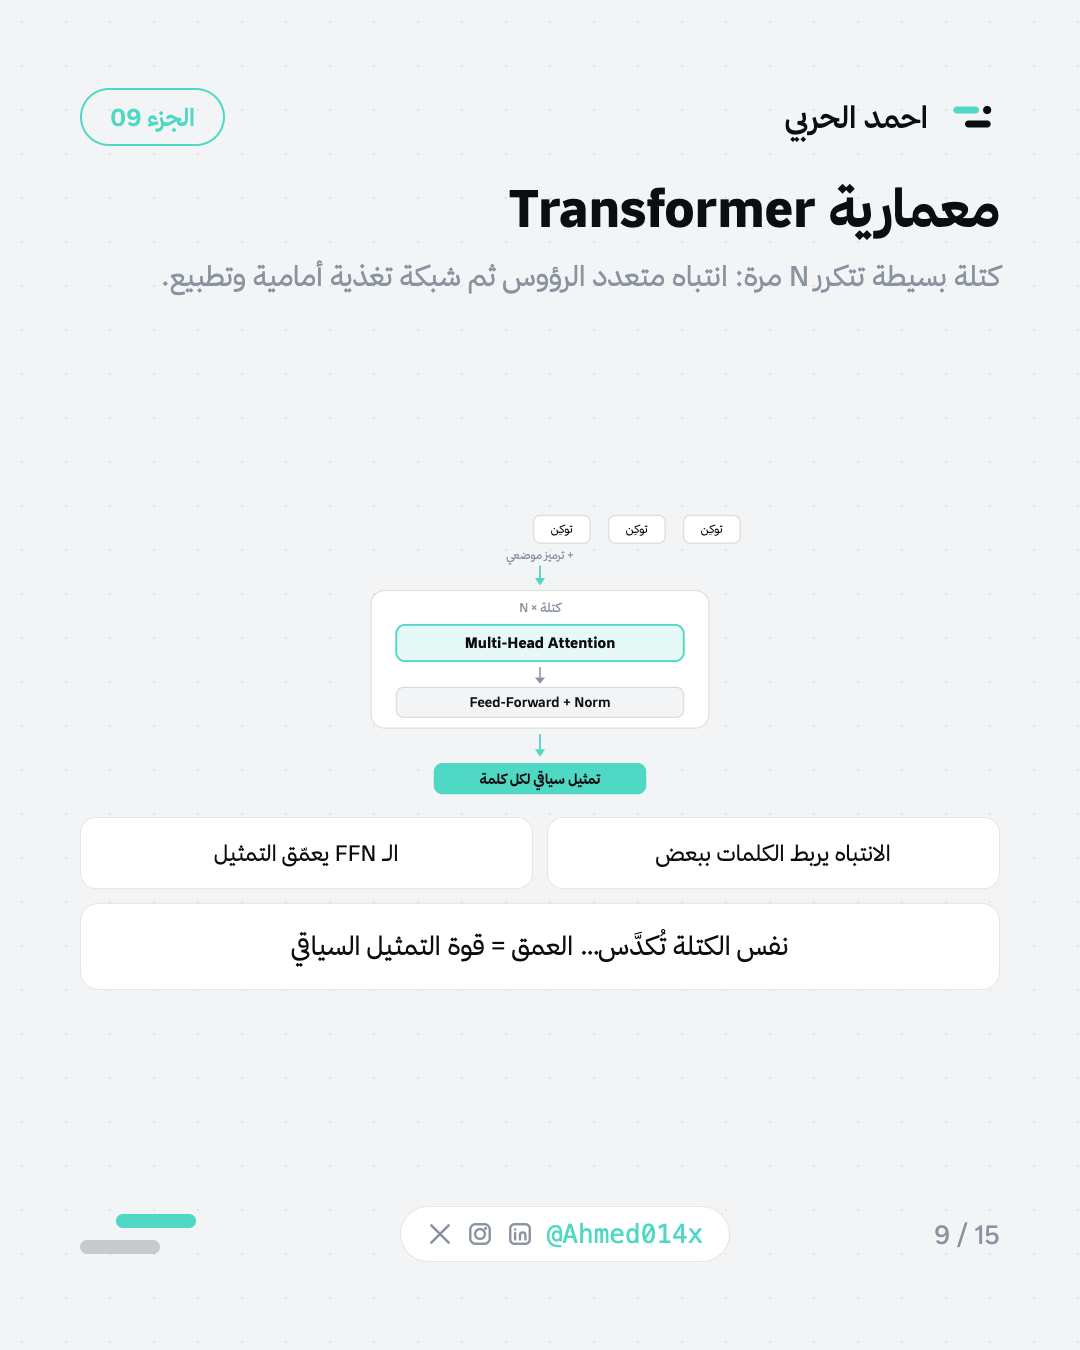
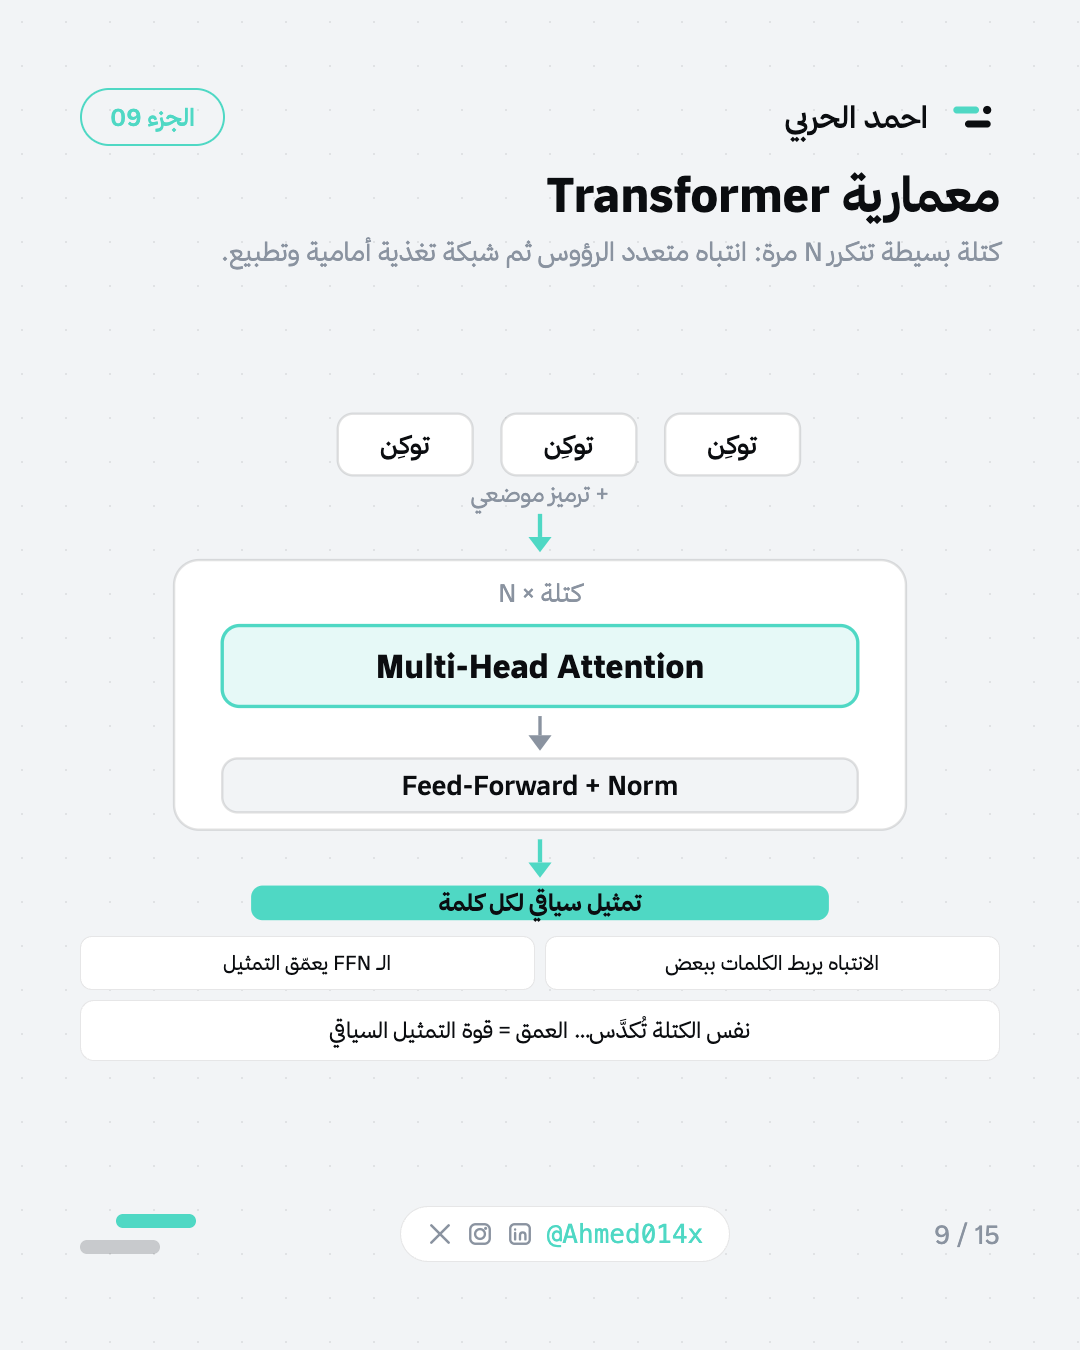
Refine brand package HTML for the NLP poster series by updating text styles and layout for improved clarity and engagement. Adjustments include resizing elements, modifying font sizes and weights, and enhancing SVG graphics. Update PNG assets to ensure visual consistency with the latest design enhan

diff --git a/brand-package/html/سلسلة-معالجة-اللغات.html b/brand-package/html/سلسلة-معالجة-اللغات.html
@@ -300,35 +300,35 @@ body{margin:0;background:#e8ebee;font-family:'Thmanyah Sans',sans-serif}
     <div style="display:flex;align-items:center;gap:16px"><svg width="56" height="56" viewBox="0 0 96 96"><rect x="16" y="30" width="44" height="12" rx="6" fill="#4fd8c4"/><rect x="36" y="54" width="44" height="12" rx="6" fill="#0b0d10"/><circle cx="74" cy="36" r="7" fill="#0b0d10"/></svg><span style="font-size:30px;font-weight:600;color:#0b0d10">احمد الحربي</span></div>
     <span style="font-size:24px;padding:12px 28px;border:2.5px solid #4fd8c4;color:#4fd8c4;font-weight:600;border-radius:999px">الجزء 09</span>
   </div>
-  <div style="margin-top:28px">
-    <div style="font-size:52px;font-weight:700;color:#0b0d10;line-height:1.3">معمارية Transformer</div>
-    <div style="font-size:28px;color:#8a93a0;line-height:1.7;margin-top:10px">كتلة بسيطة تتكرر N مرة: انتباه متعدد الرؤوس ثم شبكة تغذية أمامية وتطبيع.</div>
+  <div style="margin-top:18px">
+    <div style="font-size:48px;font-weight:700;color:#0b0d10;line-height:1.25">معمارية Transformer</div>
+    <div style="font-size:26px;color:#8a93a0;line-height:1.55;margin-top:8px">كتلة بسيطة تتكرر N مرة: انتباه متعدد الرؤوس ثم شبكة تغذية أمامية وتطبيع.</div>
   </div>
-  <div style="flex:1;display:flex;flex-direction:column;justify-content:center;gap:14px">
-    <svg viewBox="0 0 900 480" width="100%" height="300">
-      <rect x="680" y="20" width="90" height="44" rx="10" fill="#ffffff" stroke="rgba(11,13,16,.12)" stroke-width="2"/><text x="725" y="48" text-anchor="middle" fill="#0b0d10" font-size="18" font-family="Thmanyah Sans">توكِن</text>
-      <rect x="560" y="20" width="90" height="44" rx="10" fill="#ffffff" stroke="rgba(11,13,16,.12)" stroke-width="2"/><text x="605" y="48" text-anchor="middle" fill="#0b0d10" font-size="18" font-family="Thmanyah Sans">توكِن</text>
-      <rect x="440" y="20" width="90" height="44" rx="10" fill="#ffffff" stroke="rgba(11,13,16,.12)" stroke-width="2"/><text x="485" y="48" text-anchor="middle" fill="#0b0d10" font-size="18" font-family="Thmanyah Sans">توكِن</text>
-      <text x="450" y="90" text-anchor="middle" fill="#8a93a0" font-size="18" font-family="Thmanyah Sans">+ ترميز موضعي</text>
-      <path d="M450 100v20" stroke="#4fd8c4" stroke-width="3"/><polygon points="442,120 450,132 458,120" fill="#4fd8c4"/>
-      <rect x="180" y="140" width="540" height="220" rx="22" fill="#ffffff" stroke="rgba(11,13,16,.10)" stroke-width="2"/>
-      <text x="450" y="175" text-anchor="middle" fill="#8a93a0" font-size="20" font-family="Thmanyah Sans">كتلة × N</text>
-      <rect x="220" y="195" width="460" height="58" rx="14" fill="rgba(79,216,196,.14)" stroke="#4fd8c4" stroke-width="3"/>
-      <text x="450" y="232" text-anchor="middle" fill="#0b0d10" font-size="24" font-weight="700" font-family="Thmanyah Sans">Multi-Head Attention</text>
-      <path d="M450 263v16" stroke="#8a93a0" stroke-width="2.5"/><polygon points="442,279 450,289 458,279" fill="#8a93a0"/>
-      <rect x="220" y="295" width="460" height="48" rx="12" fill="#f2f4f6" stroke="rgba(11,13,16,.12)" stroke-width="2"/>
-      <text x="450" y="326" text-anchor="middle" fill="#0b0d10" font-size="22" font-weight="600" font-family="Thmanyah Sans">Feed-Forward + Norm</text>
-      <path d="M450 370v24" stroke="#4fd8c4" stroke-width="3"/><polygon points="442,394 450,406 458,394" fill="#4fd8c4"/>
-      <rect x="280" y="416" width="340" height="50" rx="14" fill="#4fd8c4"/>
-      <text x="450" y="449" text-anchor="middle" fill="#0b0d10" font-size="22" font-weight="700" font-family="Thmanyah Sans">تمثيل سياقي لكل كلمة</text>
+  <div style="flex:1;display:flex;flex-direction:column;justify-content:center;gap:10px;min-height:0">
+    <svg viewBox="0 0 920 540" width="100%" height="520" style="flex-shrink:0">
+      <rect x="590" y="8" width="140" height="64" rx="16" fill="#ffffff" stroke="rgba(11,13,16,.12)" stroke-width="2.5"/><text x="660" y="50" text-anchor="middle" fill="#0b0d10" font-size="26" font-weight="600" font-family="Thmanyah Sans">توكِن</text>
+      <rect x="420" y="8" width="140" height="64" rx="16" fill="#ffffff" stroke="rgba(11,13,16,.12)" stroke-width="2.5"/><text x="490" y="50" text-anchor="middle" fill="#0b0d10" font-size="26" font-weight="600" font-family="Thmanyah Sans">توكِن</text>
+      <rect x="250" y="8" width="140" height="64" rx="16" fill="#ffffff" stroke="rgba(11,13,16,.12)" stroke-width="2.5"/><text x="320" y="50" text-anchor="middle" fill="#0b0d10" font-size="26" font-weight="600" font-family="Thmanyah Sans">توكِن</text>
+      <text x="460" y="100" text-anchor="middle" fill="#8a93a0" font-size="24" font-family="Thmanyah Sans">+ ترميز موضعي</text>
+      <path d="M460 112v24" stroke="#4fd8c4" stroke-width="4.5"/><polygon points="448,136 460,152 472,136" fill="#4fd8c4"/>
+      <rect x="80" y="160" width="760" height="280" rx="26" fill="#ffffff" stroke="rgba(11,13,16,.12)" stroke-width="2.5"/>
+      <text x="460" y="204" text-anchor="middle" fill="#8a93a0" font-size="26" font-family="Thmanyah Sans">كتلة × N</text>
+      <rect x="130" y="228" width="660" height="84" rx="18" fill="rgba(79,216,196,.14)" stroke="#4fd8c4" stroke-width="3.5"/>
+      <text x="460" y="282" text-anchor="middle" fill="#0b0d10" font-size="34" font-weight="700" font-family="Thmanyah Sans">Multi-Head Attention</text>
+      <path d="M460 322v20" stroke="#8a93a0" stroke-width="3.5"/><polygon points="448,342 460,358 472,342" fill="#8a93a0"/>
+      <rect x="130" y="366" width="660" height="56" rx="16" fill="#f2f4f6" stroke="rgba(11,13,16,.12)" stroke-width="2.5"/>
+      <text x="460" y="404" text-anchor="middle" fill="#0b0d10" font-size="28" font-weight="600" font-family="Thmanyah Sans">Feed-Forward + Norm</text>
+      <path d="M460 450v24" stroke="#4fd8c4" stroke-width="4.5"/><polygon points="448,474 460,490 472,474" fill="#4fd8c4"/>
+      <rect x="160" y="498" width="600" height="36" rx="12" fill="#4fd8c4"/>
+      <text x="460" y="524" text-anchor="middle" fill="#0b0d10" font-size="24" font-weight="700" font-family="Thmanyah Sans">تمثيل سياقي لكل كلمة</text>
     </svg>
-    <div style="display:grid;grid-template-columns:1fr 1fr;gap:14px">
-      <div style="background:#ffffff;border:1px solid rgba(11,13,16,.10);border-radius:16px;padding:18px 22px;font-size:22px;color:#0b0d10;line-height:1.55;text-align:center">الانتباه يربط الكلمات ببعض</div>
-      <div style="background:#ffffff;border:1px solid rgba(11,13,16,.10);border-radius:16px;padding:18px 22px;font-size:22px;color:#0b0d10;line-height:1.55;text-align:center">الـ FFN يعمّق التمثيل</div>
+    <div style="display:grid;grid-template-columns:1fr 1fr;gap:10px">
+      <div style="background:#ffffff;border:1px solid rgba(11,13,16,.10);border-radius:12px;padding:12px 16px;font-size:20px;color:#0b0d10;line-height:1.4;text-align:center">الانتباه يربط الكلمات ببعض</div>
+      <div style="background:#ffffff;border:1px solid rgba(11,13,16,.10);border-radius:12px;padding:12px 16px;font-size:20px;color:#0b0d10;line-height:1.4;text-align:center">الـ FFN يعمّق التمثيل</div>
     </div>
-    <div style="background:#ffffff;border:1px solid rgba(11,13,16,.10);border-radius:18px;padding:22px 28px;font-size:26px;color:#0b0d10;text-align:center;line-height:1.55">نفس الكتلة تُكدَّس… العمق = قوة التمثيل السياقي</div>
+    <div style="background:#ffffff;border:1px solid rgba(11,13,16,.10);border-radius:14px;padding:14px 20px;font-size:22px;color:#0b0d10;text-align:center;line-height:1.4">نفس الكتلة تُكدَّس… العمق = قوة التمثيل السياقي</div>
   </div>
-  <div style="display:flex;justify-content:space-between;align-items:center;margin-top:12px">
+<div style="display:flex;justify-content:space-between;align-items:center;margin-top:12px">
     <span dir="ltr" style="font-size:26px;font-family:'Thmanyah Sans',sans-serif;color:#8a93a0">9 / 15</span>
     <div dir="ltr" style="display:flex;align-items:center;gap:14px;padding:12px 26px;background:#ffffff;border:1px solid rgba(11,13,16,.10);border-radius:999px"><svg width="26" height="26" viewBox="0 0 24 24" fill="none" stroke="#8a93a0" stroke-width="2.4" stroke-linecap="round"><path d="M4 4l16 16M20 4L4 20"/></svg><svg width="26" height="26" viewBox="0 0 24 24" fill="none" stroke="#8a93a0" stroke-width="2.2" stroke-linecap="round"><rect x="3" y="3" width="18" height="18" rx="5"/><circle cx="12" cy="12" r="4.5"/><circle cx="17.2" cy="6.8" r="1.4" fill="#8a93a0" stroke="none"/></svg><svg width="26" height="26" viewBox="0 0 24 24" fill="none" stroke="#8a93a0" stroke-width="2.2" stroke-linecap="round"><rect x="3" y="3" width="18" height="18" rx="4"/><path d="M7.5 11v6M7.5 7.8v.1M12 17v-4a2.5 2.5 0 0 1 5 0v4"/></svg><span dir="ltr" style="font-size:26px;font-family:ui-monospace,monospace;color:#4fd8c4">@Ahmed014x</span></div>
     <div style="display:flex;flex-direction:column;gap:12px;align-items:flex-start"><span style="width:80px;height:14px;border-radius:7px;background:#4fd8c4"></span><span style="width:80px;height:14px;border-radius:7px;background:rgba(11,13,16,.18);margin-right:36px"></span></div>
@@ -340,36 +340,36 @@ body{margin:0;background:#e8ebee;font-family:'Thmanyah Sans',sans-serif}
     <div style="display:flex;align-items:center;gap:16px"><svg width="56" height="56" viewBox="0 0 96 96"><rect x="16" y="30" width="44" height="12" rx="6" fill="#4fd8c4"/><rect x="36" y="54" width="44" height="12" rx="6" fill="#0b0d10"/><circle cx="74" cy="36" r="7" fill="#0b0d10"/></svg><span style="font-size:30px;font-weight:600;color:#0b0d10">احمد الحربي</span></div>
     <span style="font-size:24px;padding:12px 28px;border:2.5px solid #4fd8c4;color:#4fd8c4;font-weight:600;border-radius:999px">الجزء 10</span>
   </div>
-  <div style="margin-top:28px">
-    <div style="font-size:48px;font-weight:700;color:#0b0d10;line-height:1.3">Multi-Head Attention</div>
-    <div style="font-size:28px;color:#8a93a0;line-height:1.7;margin-top:10px">عدة «رؤوس» تنتبه لأنماط مختلفة في نفس الوقت… ثم تُدمَج في تمثيل أغنى.</div>
+  <div style="margin-top:18px">
+    <div style="font-size:46px;font-weight:700;color:#0b0d10;line-height:1.25">Multi-Head Attention</div>
+    <div style="font-size:26px;color:#8a93a0;line-height:1.55;margin-top:8px">عدة «رؤوس» تنتبه لأنماط مختلفة في نفس الوقت… ثم تُدمَج في تمثيل أغنى.</div>
   </div>
-  <div style="flex:1;display:flex;flex-direction:column;justify-content:center;gap:14px">
-    <svg viewBox="0 0 920 400" width="100%" height="280">
-      <rect x="360" y="20" width="200" height="56" rx="14" fill="#ffffff" stroke="rgba(11,13,16,.12)" stroke-width="2.5"/>
-      <text x="460" y="55" text-anchor="middle" fill="#0b0d10" font-size="22" font-weight="600" font-family="Thmanyah Sans">التسلسل</text>
-      <path d="M460 86v20" stroke="#4fd8c4" stroke-width="3"/><polygon points="452,106 460,118 468,106" fill="#4fd8c4"/>
-      <rect x="80" y="130" width="200" height="100" rx="16" fill="rgba(79,216,196,.12)" stroke="#4fd8c4" stroke-width="2.5"/>
-      <text x="180" y="175" text-anchor="middle" fill="#0b0d10" font-size="22" font-weight="700" font-family="Thmanyah Sans">Head 1</text>
-      <text x="180" y="205" text-anchor="middle" fill="#8a93a0" font-size="16" font-family="Thmanyah Sans">علاقات نحوية</text>
-      <rect x="360" y="130" width="200" height="100" rx="16" fill="rgba(79,216,196,.12)" stroke="#4fd8c4" stroke-width="2.5"/>
-      <text x="460" y="175" text-anchor="middle" fill="#0b0d10" font-size="22" font-weight="700" font-family="Thmanyah Sans">Head 2</text>
-      <text x="460" y="205" text-anchor="middle" fill="#8a93a0" font-size="16" font-family="Thmanyah Sans">معنى بعيد</text>
-      <rect x="640" y="130" width="200" height="100" rx="16" fill="rgba(79,216,196,.12)" stroke="#4fd8c4" stroke-width="2.5"/>
-      <text x="740" y="175" text-anchor="middle" fill="#0b0d10" font-size="22" font-weight="700" font-family="Thmanyah Sans">Head 3</text>
-      <text x="740" y="205" text-anchor="middle" fill="#8a93a0" font-size="16" font-family="Thmanyah Sans">إشارات أخرى</text>
-      <path d="M180 240v40h560v-40" fill="none" stroke="#4fd8c4" stroke-width="2.5"/>
-      <path d="M460 280v24" stroke="#4fd8c4" stroke-width="3"/><polygon points="452,304 460,316 468,304" fill="#4fd8c4"/>
-      <rect x="260" y="326" width="400" height="56" rx="16" fill="#4fd8c4"/>
-      <text x="460" y="362" text-anchor="middle" fill="#0b0d10" font-size="24" font-weight="700" font-family="Thmanyah Sans">دمج الرؤوس ← مخرج واحد</text>
+  <div style="flex:1;display:flex;flex-direction:column;justify-content:center;gap:10px;min-height:0">
+    <svg viewBox="0 0 920 500" width="100%" height="500" style="flex-shrink:0">
+      <rect x="260" y="10" width="400" height="80" rx="20" fill="#ffffff" stroke="rgba(11,13,16,.12)" stroke-width="3"/>
+      <text x="460" y="62" text-anchor="middle" fill="#0b0d10" font-size="32" font-weight="700" font-family="Thmanyah Sans">التسلسل</text>
+      <path d="M460 100v32" stroke="#4fd8c4" stroke-width="5"/><polygon points="446,132 460,150 474,132" fill="#4fd8c4"/>
+      <rect x="20" y="164" width="280" height="150" rx="22" fill="rgba(79,216,196,.12)" stroke="#4fd8c4" stroke-width="3.5"/>
+      <text x="160" y="232" text-anchor="middle" fill="#0b0d10" font-size="34" font-weight="700" font-family="Thmanyah Sans">Head 1</text>
+      <text x="160" y="278" text-anchor="middle" fill="#8a93a0" font-size="24" font-family="Thmanyah Sans">علاقات نحوية</text>
+      <rect x="320" y="164" width="280" height="150" rx="22" fill="rgba(79,216,196,.12)" stroke="#4fd8c4" stroke-width="3.5"/>
+      <text x="460" y="232" text-anchor="middle" fill="#0b0d10" font-size="34" font-weight="700" font-family="Thmanyah Sans">Head 2</text>
+      <text x="460" y="278" text-anchor="middle" fill="#8a93a0" font-size="24" font-family="Thmanyah Sans">معنى بعيد</text>
+      <rect x="620" y="164" width="280" height="150" rx="22" fill="rgba(79,216,196,.12)" stroke="#4fd8c4" stroke-width="3.5"/>
+      <text x="760" y="232" text-anchor="middle" fill="#0b0d10" font-size="34" font-weight="700" font-family="Thmanyah Sans">Head 3</text>
+      <text x="760" y="278" text-anchor="middle" fill="#8a93a0" font-size="24" font-family="Thmanyah Sans">إشارات أخرى</text>
+      <path d="M160 324v56h600v-56" fill="none" stroke="#4fd8c4" stroke-width="4"/>
+      <path d="M460 380v32" stroke="#4fd8c4" stroke-width="5"/><polygon points="446,412 460,430 474,412" fill="#4fd8c4"/>
+      <rect x="140" y="438" width="640" height="52" rx="18" fill="#4fd8c4"/>
+      <text x="460" y="474" text-anchor="middle" fill="#0b0d10" font-size="30" font-weight="700" font-family="Thmanyah Sans">دمج الرؤوس ← مخرج واحد</text>
     </svg>
-    <div style="display:grid;grid-template-columns:1fr 1fr;gap:14px">
-      <div style="background:#ffffff;border:1px solid rgba(11,13,16,.10);border-radius:16px;padding:18px 22px;font-size:22px;color:#0b0d10;line-height:1.55;text-align:center">رأس واحد يرى زاوية واحدة</div>
-      <div style="background:#ffffff;border:1px solid rgba(11,13,16,.10);border-radius:16px;padding:18px 22px;font-size:22px;color:#0b0d10;line-height:1.55;text-align:center">عدة رؤوس = نحو + معنى + إشارات</div>
+    <div style="display:grid;grid-template-columns:1fr 1fr;gap:10px">
+      <div style="background:#ffffff;border:1px solid rgba(11,13,16,.10);border-radius:12px;padding:12px 16px;font-size:20px;color:#0b0d10;line-height:1.4;text-align:center">رأس واحد يرى زاوية واحدة</div>
+      <div style="background:#ffffff;border:1px solid rgba(11,13,16,.10);border-radius:12px;padding:12px 16px;font-size:20px;color:#0b0d10;line-height:1.4;text-align:center">عدة رؤوس = نحو + معنى + إشارات</div>
     </div>
-    <div style="background:#ffffff;border:1px solid rgba(11,13,16,.10);border-radius:18px;padding:22px 28px;font-size:26px;color:#0b0d10;text-align:center;line-height:1.55">رأس واحد محدود؛ عدة رؤوس = زوايا متعددة لنفس الجملة</div>
+    <div style="background:#ffffff;border:1px solid rgba(11,13,16,.10);border-radius:14px;padding:14px 20px;font-size:22px;color:#0b0d10;text-align:center;line-height:1.4">رأس واحد محدود؛ عدة رؤوس = زوايا متعددة لنفس الجملة</div>
   </div>
-  <div style="display:flex;justify-content:space-between;align-items:center;margin-top:16px">
+<div style="display:flex;justify-content:space-between;align-items:center;margin-top:10px">
     <span dir="ltr" style="font-size:26px;font-family:'Thmanyah Sans',sans-serif;color:#8a93a0">10 / 15</span>
     <div dir="ltr" style="display:flex;align-items:center;gap:14px;padding:12px 26px;background:#ffffff;border:1px solid rgba(11,13,16,.10);border-radius:999px"><svg width="26" height="26" viewBox="0 0 24 24" fill="none" stroke="#8a93a0" stroke-width="2.4" stroke-linecap="round"><path d="M4 4l16 16M20 4L4 20"/></svg><svg width="26" height="26" viewBox="0 0 24 24" fill="none" stroke="#8a93a0" stroke-width="2.2" stroke-linecap="round"><rect x="3" y="3" width="18" height="18" rx="5"/><circle cx="12" cy="12" r="4.5"/><circle cx="17.2" cy="6.8" r="1.4" fill="#8a93a0" stroke="none"/></svg><svg width="26" height="26" viewBox="0 0 24 24" fill="none" stroke="#8a93a0" stroke-width="2.2" stroke-linecap="round"><rect x="3" y="3" width="18" height="18" rx="4"/><path d="M7.5 11v6M7.5 7.8v.1M12 17v-4a2.5 2.5 0 0 1 5 0v4"/></svg><span dir="ltr" style="font-size:26px;font-family:ui-monospace,monospace;color:#4fd8c4">@Ahmed014x</span></div>
     <div style="display:flex;flex-direction:column;gap:12px;align-items:flex-start"><span style="width:80px;height:14px;border-radius:7px;background:#4fd8c4"></span><span style="width:80px;height:14px;border-radius:7px;background:rgba(11,13,16,.18);margin-right:36px"></span></div>
@@ -387,16 +387,16 @@ body{margin:0;background:#e8ebee;font-family:'Thmanyah Sans',sans-serif}
   </div>
   <div style="flex:1;display:flex;flex-direction:column;justify-content:center;gap:24px">
     <div style="display:grid;grid-template-columns:1fr 1fr;gap:18px">
-      <div style="background:#ffffff;border:1px solid rgba(11,13,16,.10);border-radius:20px;padding:28px;text-align:center">
-        <div style="font-size:24px;color:#8a93a0;margin-bottom:14px">بدون موقع</div>
-        <div style="font-size:30px;font-weight:700;color:#0b0d10;line-height:1.6">أسد أكل رجل<br/><span style="color:#8a93a0;font-size:22px;font-weight:500">≈</span><br/>رجل أكل أسد؟</div>
+      <div style="background:#ffffff;border:1px solid rgba(11,13,16,.10);border-radius:20px;padding:36px 28px;text-align:center;min-height:320px;display:flex;flex-direction:column;justify-content:center">
+        <div style="font-size:26px;color:#8a93a0;margin-bottom:20px">بدون موقع</div>
+        <div style="font-size:34px;font-weight:700;color:#0b0d10;line-height:1.7">أسد أكل رجل<br/><span style="color:#8a93a0;font-size:26px;font-weight:500">≈</span><br/>رجل أكل أسد؟</div>
       </div>
-      <div style="background:#ffffff;border:2.5px solid #4fd8c4;border-radius:20px;padding:28px;text-align:center">
-        <div style="font-size:24px;color:#4fd8c4;margin-bottom:14px">مع موقع</div>
-        <div style="display:flex;justify-content:center;gap:10px;flex-wrap:wrap;margin-top:20px">
-          <div style="padding:12px 16px;background:rgba(79,216,196,.15);border-radius:12px;font-size:22px;font-weight:700;color:#0b0d10">أسد<span style="display:block;font-size:16px;color:#4fd8c4;font-weight:600">pos 1</span></div>
-          <div style="padding:12px 16px;background:rgba(79,216,196,.15);border-radius:12px;font-size:22px;font-weight:700;color:#0b0d10">أكل<span style="display:block;font-size:16px;color:#4fd8c4;font-weight:600">pos 2</span></div>
-          <div style="padding:12px 16px;background:rgba(79,216,196,.15);border-radius:12px;font-size:22px;font-weight:700;color:#0b0d10">رجل<span style="display:block;font-size:16px;color:#4fd8c4;font-weight:600">pos 3</span></div>
+      <div style="background:#ffffff;border:2.5px solid #4fd8c4;border-radius:20px;padding:36px 24px;text-align:center;min-height:320px;display:flex;flex-direction:column;justify-content:center">
+        <div style="font-size:26px;color:#4fd8c4;margin-bottom:28px;font-weight:600">مع موقع</div>
+        <div style="display:flex;justify-content:stretch;gap:12px;width:100%">
+          <div style="flex:1;padding:32px 12px;background:rgba(79,216,196,.18);border:2px solid #4fd8c4;border-radius:18px;font-size:34px;font-weight:700;color:#0b0d10">أسد<span style="display:block;font-size:20px;color:#0b0d10;font-weight:600;margin-top:12px;opacity:.7">pos 1</span></div>
+          <div style="flex:1;padding:32px 12px;background:rgba(79,216,196,.18);border:2px solid #4fd8c4;border-radius:18px;font-size:34px;font-weight:700;color:#0b0d10">أكل<span style="display:block;font-size:20px;color:#0b0d10;font-weight:600;margin-top:12px;opacity:.7">pos 2</span></div>
+          <div style="flex:1;padding:32px 12px;background:rgba(79,216,196,.18);border:2px solid #4fd8c4;border-radius:18px;font-size:34px;font-weight:700;color:#0b0d10">رجل<span style="display:block;font-size:20px;color:#0b0d10;font-weight:600;margin-top:12px;opacity:.7">pos 3</span></div>
         </div>
       </div>
     </div>
